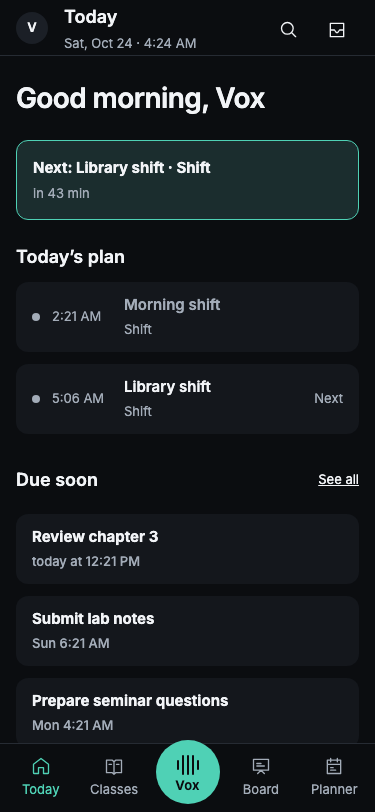
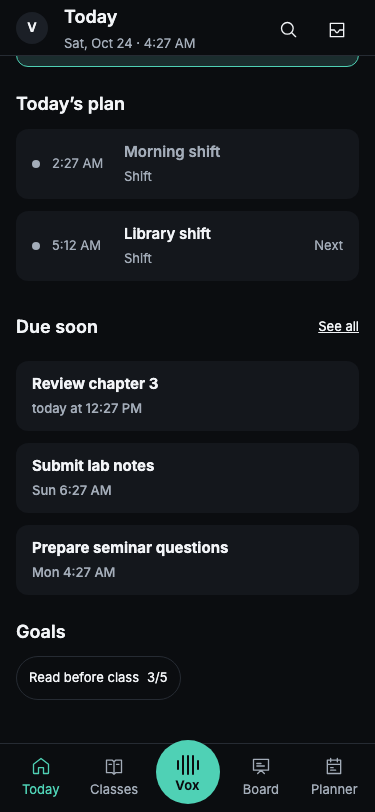
Update M2 mobile scroll evidence for final preview

diff --git a/docs/product/evidence/m2-shell-today/README.md b/docs/product/evidence/m2-shell-today/README.md
@@ -2,7 +2,7 @@
 
 Preview: https://vox-test.66-175-235-169.nip.io/
 
-Application release: \`09e177b\`. This is a first slice, not full milestone acceptance.
+Application release: \`79cf83c\`. This is a first slice, not full milestone acceptance.
 All screenshots use the isolated synthetic QA account. The populated screens use
 records saved through the real APIs, not intercepted or hard-coded responses.
 
@@ -12,7 +12,9 @@ records saved through the real APIs, not intercepted or hard-coded responses.
 - [x] Production web build and isolated test deployment.
 - [x] Desktop sidebar, profile menu, local date/time and Cmd/Ctrl+K search.
 - [x] 375 px Chromium touch emulation: tabs, profile menu, scrolling, Planner tap;
-      no horizontal overflow. Physical-phone verification is not included.
+      no horizontal overflow. After scrolling, the goal chip sits above the tab bar,
+      can be tapped, and opens Goals; the header/profile remain aligned.
+      Physical-phone verification is not included.
 - [x] Persistent Vox through Today → Classes → Planner → Today, mobile minimize,
       navigation and reopen: exactly one call admission.
 - [x] Desktop call panel 400 px and modeless; mobile panel 375 px and modal.
@@ -74,7 +76,7 @@ Existing Vox call visual in the new full-screen placement:
 - [ ] Saved Board resume link live check. Board remains behind its existing release
       flag; Part 3 is not being marked complete.
 - [ ] All four onboarding steps completing together against real integrations.
-- [ ] Full source screenshot comparison, long-name handling, consistent course
+- [ ] Full source screenshot comparison, consistent course
       colors across later screens, light-theme interaction and reduced-motion audit.
 
 The header uses a compact 18 px page label while the Today greeting uses 28 px.
@@ -84,3 +86,6 @@ own slot. These differences remain reviewable and are not treated as an exact
 match to every supplied screen. Existing Classes/Planner/Inbox content keeps its
 working behavior pending the later redesign milestone. Noa's artwork and states
 remain Part 2; the current Vox visual is preserved.
+
+GitHub Actions returned no pull-request workflow runs for this stacked draft head;
+local checks and live preview evidence above are the available validation.

diff --git a/docs/product/vox-m2-shell-today.md b/docs/product/vox-m2-shell-today.md
@@ -112,7 +112,7 @@ passes. Tests include failed-load handling, account-response isolation, local da
 and DST projections, plus the existing voice lifecycle and cleanup suite.
 Browser screenshots and live navigation/call checks passed for this slice. See
 [evidence and per-item acceptance](evidence/m2-shell-today/README.md).
-The preview runs release `09e177b` with planning/goals flags paired across frontend
+The preview runs release `79cf83c` with planning/goals flags paired across frontend
 and backend. Screenshots use only synthetic QA data; phone tests remain pending.
 
 Remaining before M2 acceptance: combined typed/transcript Vox conversation,
